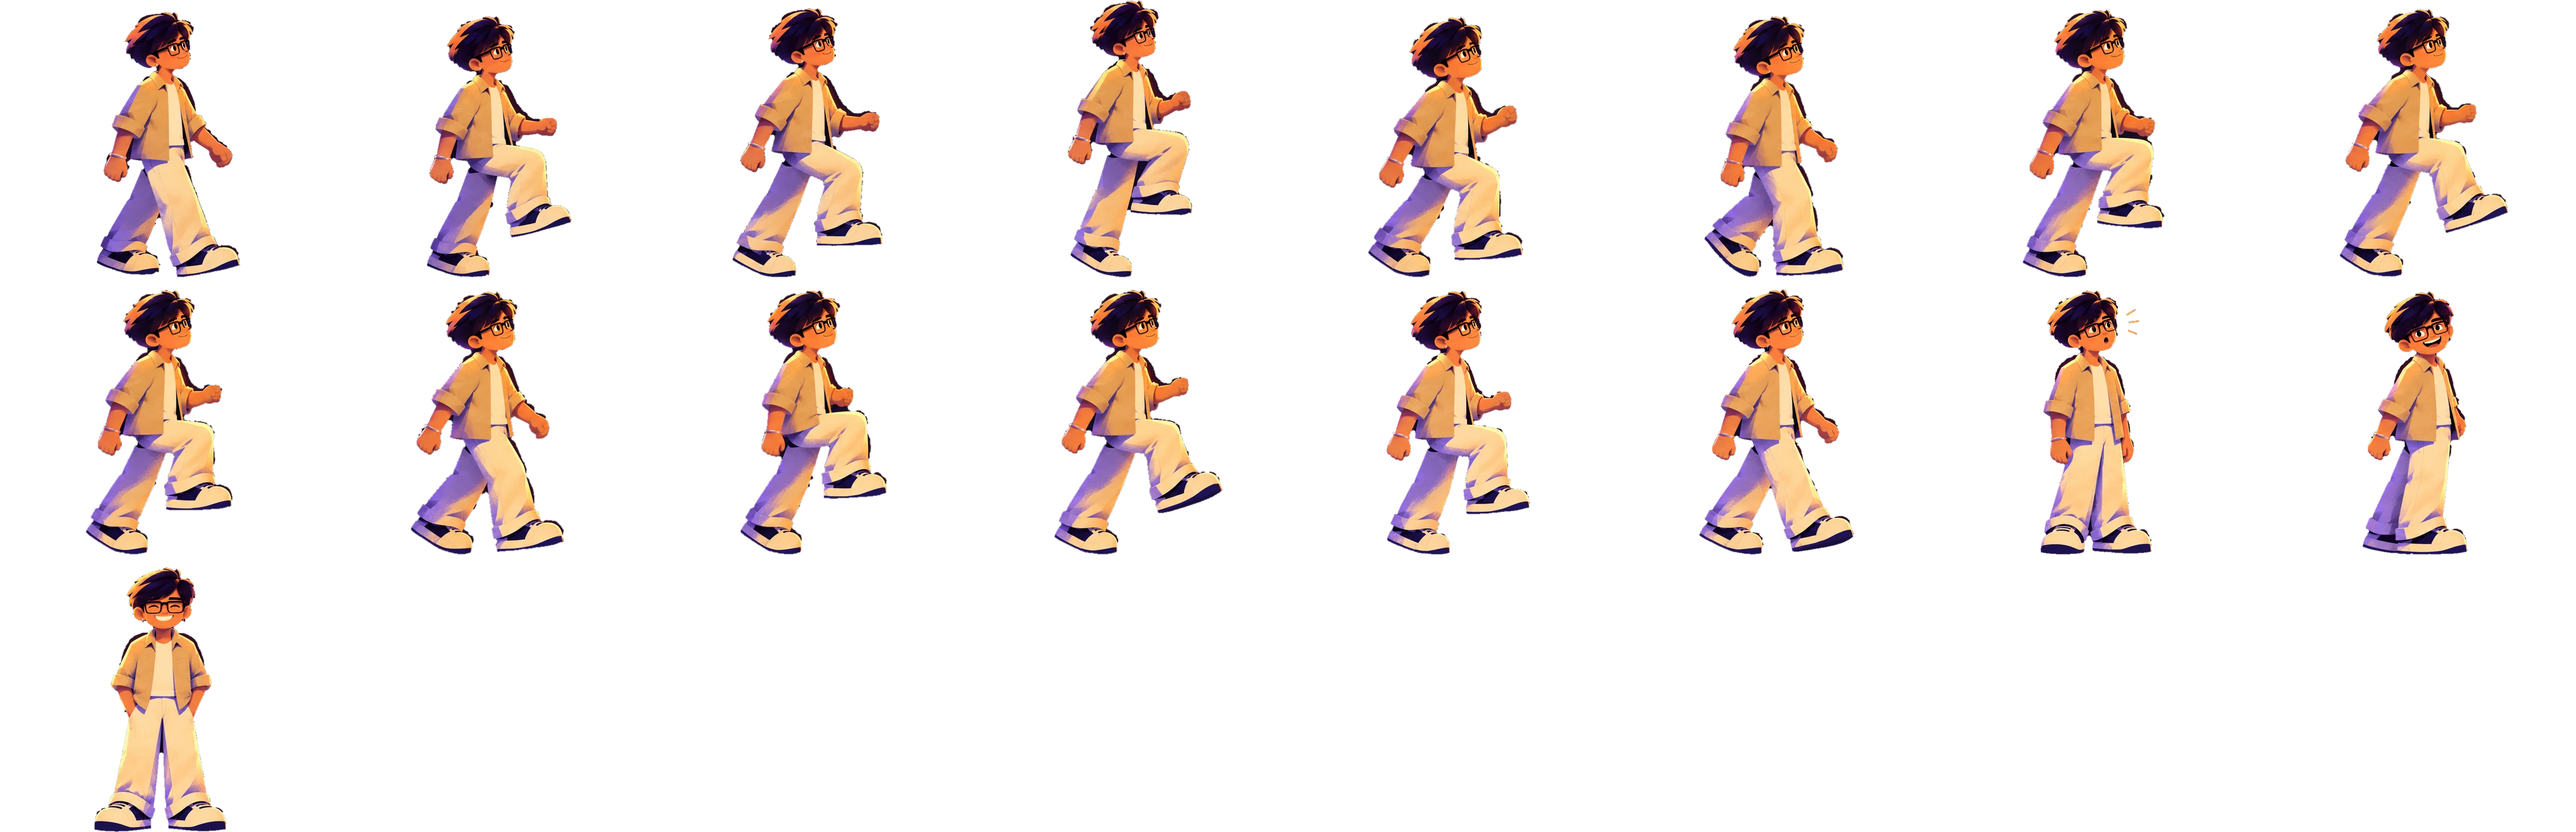
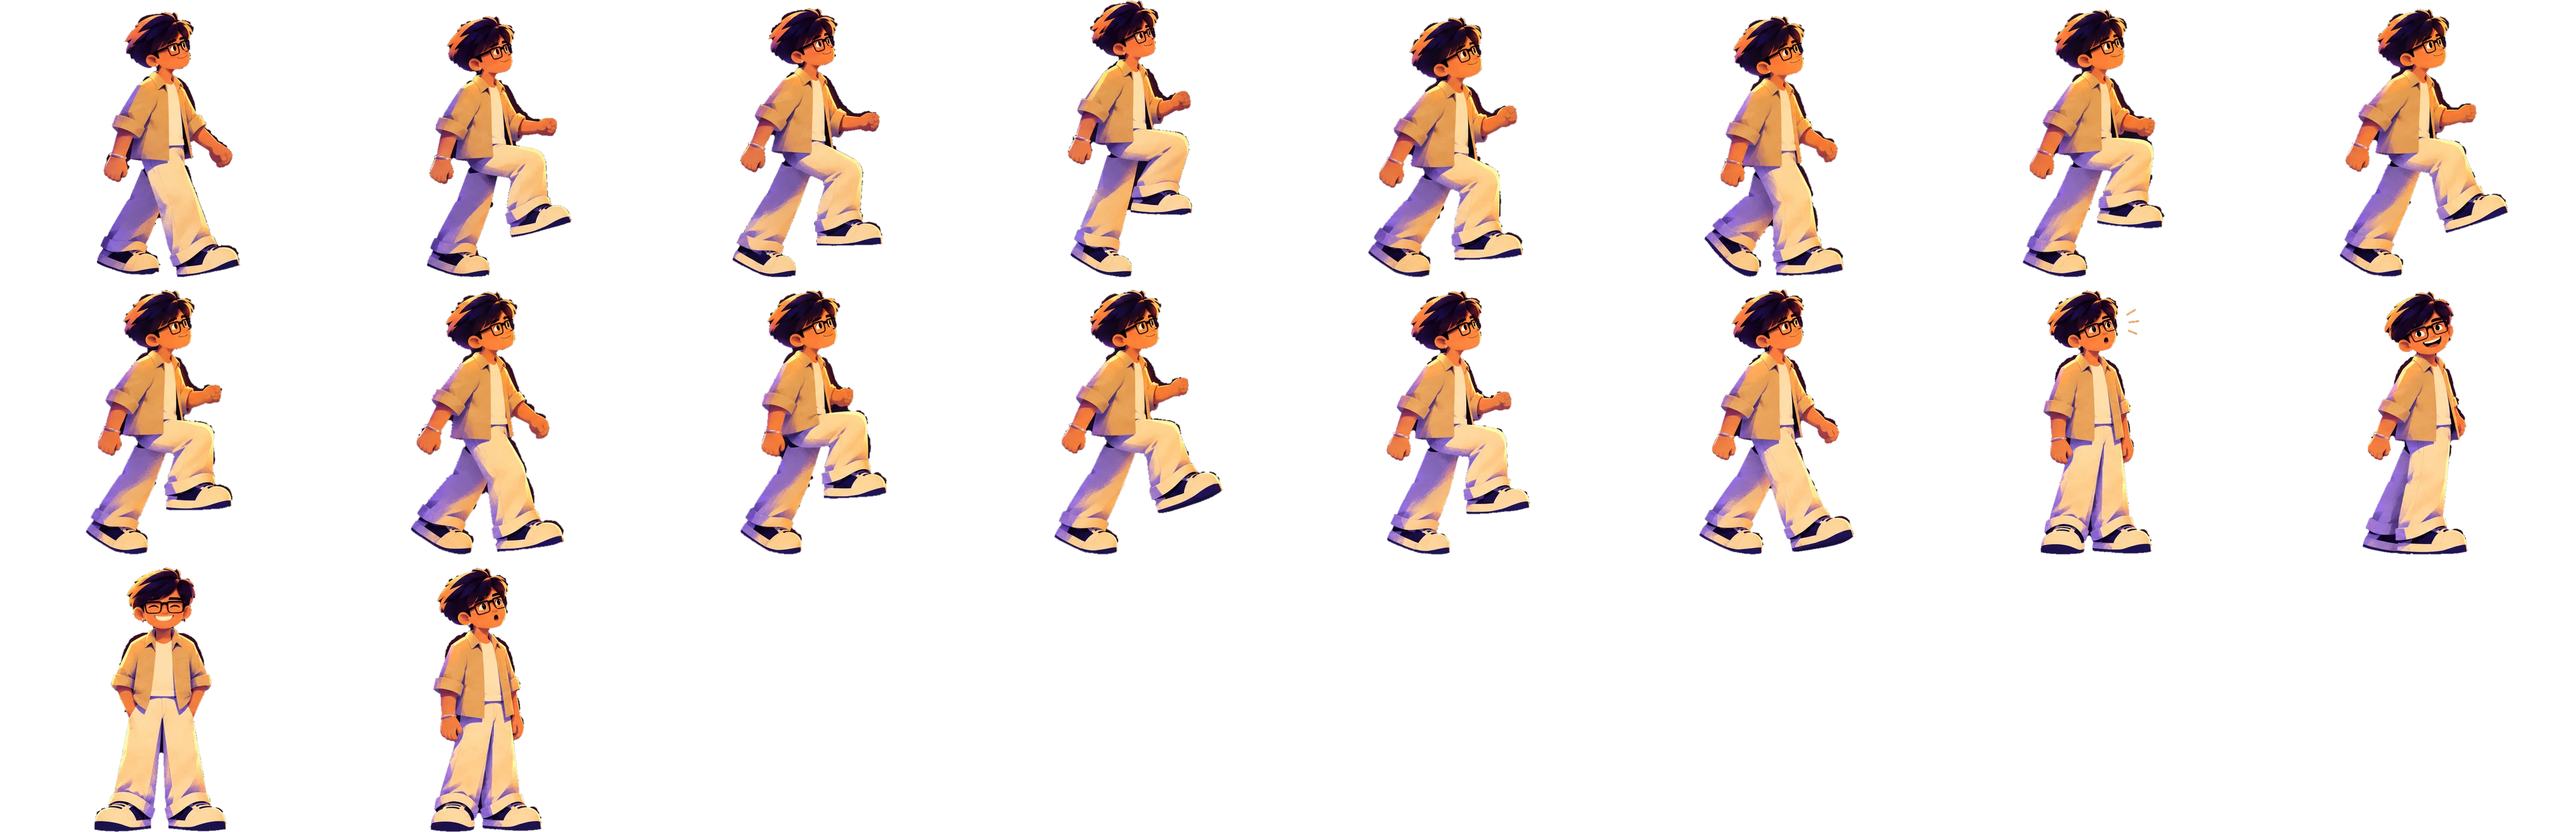
Cinema: new illustrated hall
The painted art-deco hall replaces the pixel theatre (tools/build_cinema.py cuts the
magenta screen out so the reel plays behind it, and lifts the seats from the first row
down into an overlay drawn in front of him). He comes in by the left door, stops beside
the stage and watches the screen, then crosses in front of the stage, just behind the
first row, and leaves by the right door. Reel controls sit on the lit stage apron.

He keeps the painted sprites in the hall (the watching pose is the gasp frame without its
marks). On phones the reel controls sit clear of the bottom nav.

Changed region(s): [[0.1562, 0.6875, 0.2188, 1.0]]

diff --git a/js/main.js b/js/main.js
@@ -44,7 +44,7 @@
     rise: [[0.375, 0], [0.625, 0.55], [0.875, 1]],   // [phase, share of the stride's rise]
   };
   // Character sheet per location (js/sprite.js SETS); locations without one use the pixel sheet
-  const SPRITE_SET = { street: "street", drain: "drain", subway: "street" };
+  const SPRITE_SET = { street: "street", drain: "drain", subway: "street", cinema: "street" };
   // Into the manhole: where he stops (art px left of its centre) and how high he steps off (x his height)
   const DROP = { stand: 225, arc: 0.14 };
   // Hero focus: STREET_DIM black over the street except soft windows at each billboard and a spotlight
@@ -172,11 +172,11 @@
   const CINEMA = {
     w: 1672, h: 941,
     front: {
-      screen: [476, 246, 720, 342],      // magenta area, keyed out; the reel plays behind it
-      stage: [380, 640, 920, 64],        // front of the stage: reel controls live here
-      rowTop: 700, rowH: 319,             // foreground seat row (assets/cinema/seat-row.webp)
-      door: 105, exit: 1575, floor: 692,  // left door he enters by, right door he leaves by; the floor between
-      stand: 235,                         // where he stops beside the stage to watch
+      screen: [504, 228, 663, 297],      // the screen, cut out of the art; the reel plays behind it
+      stage: [410, 552, 852, 46],        // the lit stage apron: reel controls live here
+      rowTop: 596,                       // seats from the first row down (assets/cinema/seat-row.webp) are drawn in front of him
+      door: 201, exit: 1463, floor: 612, // left door he enters by, right door he leaves by; his feet, just behind the first row
+      stand: 335,                        // where he stops, left of the stage, to watch
     },
   };
 
@@ -524,7 +524,7 @@
     fbox($(".cinema-content"), F.screen);
     // controls sit on the stage front; on tall narrow screens there's room below the room instead
     const visLeft = Math.min(Math.max(front.ox + 836 * fs - vw / 2, 0), front.w - vw) - front.ox;   // camera's left edge, in art-box px
-    if (front.h - front.oy - fh > 140) setBox($(".reel-bar"), visLeft + 12, fh + 20, vw - 24, front.h - front.oy - fh - 40);
+    if (front.h - front.oy - fh > 140) setBox($(".reel-bar"), visLeft + 12, fh + 10, vw - 24, front.h - front.oy - fh - 20);
     else fbox($(".reel-bar"), F.stage);
     // the seat row sits in front of him, clipped to the bottom of the room
     const rowY = front.y + front.oy + Math.round(F.rowTop * fs);
@@ -777,11 +777,14 @@
       case "land": anim = t < 0.45 ? "land" : t < 0.72 ? "glasses" : "smile"; n = t < 0.14 ? 0 : t < 0.32 ? 1 : 2; break;
       case "jump": anim = "jump"; n = Math.min(4, Math.floor(t * 5)); break;
       case "look": anim = "look"; n = tick(700); break;
-      case "watch": anim = tick(3200) % 4 === 3 ? "look" : "gaze"; n = tick(900); facing = s.face || -1; break;
+      case "watch":
+        if (Sprite.painted(set)) { set = "stairs"; anim = tick(3200) % 4 === 3 ? "grin" : "awe"; n = 0; }   // eyes on the screen, now and then a grin
+        else { anim = tick(3200) % 4 === 3 ? "look" : "gaze"; n = tick(900); facing = s.face || -1; }
+        break;
       case "sit": anim = s.prop === "chai" ? "chai" : "cinema"; n = tick(s.prop === "chai" ? 650 : 500); break;
     }
     let flips = ["walk", "run", "idle", "talk", "point", "look", "gaze"].includes(anim);   // climb frames are drawn facing their direction
-    const grounded = ["walk", "run", "idle", "talk", "point", "look", "gaze", "wave", "climbUp", "climbDown", "peer", "land", "glasses", "smile", "climb", "gasp", "happy", "grin"].includes(anim);
+    const grounded = ["walk", "run", "idle", "talk", "point", "look", "gaze", "wave", "climbUp", "climbDown", "peer", "land", "glasses", "smile", "climb", "gasp", "happy", "grin", "awe"].includes(anim);
     // painted sheets have their own left-facing frames instead of being mirrored
     const use = Sprite.resolve(set, anim, facing);
     set = use.set; anim = use.anim; flips = flips && use.flip;

diff --git a/index.html b/index.html
@@ -8,7 +8,7 @@
   <link rel="preconnect" href="https://fonts.googleapis.com" />
   <link rel="preconnect" href="https://fonts.gstatic.com" crossorigin />
   <link href="https://fonts.googleapis.com/css2?family=Press+Start+2P&family=Silkscreen&family=VT323&family=Noto+Sans+Devanagari:wght@700&display=swap" rel="stylesheet" />
-  <link rel="stylesheet" href="styles.css?v=1790888884" />
+  <link rel="stylesheet" href="styles.css?v=1790889890" />
 </head>
 <body class="ride preloading" data-location="street">
   <!-- preloader: READY? SET... GO! -> logo -> pixel dissolve into the street (js/preloader.js) -->
@@ -36,7 +36,7 @@
     <canvas class="pl-blocks"></canvas>
     <p class="pl-skip">Click or press any key to skip</p>
   </div>
-  <script src="js/preloader.js?v=1790888884"></script>
+  <script src="js/preloader.js?v=1790889890"></script>
   <a class="skip-link" href="#subway">Skip to projects</a>
 
   <!-- HUD: menu, metro route map, skip toggle -->
@@ -113,7 +113,7 @@
               <h2 class="sr-only" id="cinema-title">Reels</h2>
               <div class="screen"><div class="screen-media" id="screen-media"></div></div>
             </div>
-            <img class="bg-img pixel-art" src="assets/scenes/cinema-front.webp" alt="" decoding="async" fetchpriority="low" />
+            <img class="bg-img" src="assets/scenes/cinema-front.webp" alt="" decoding="async" fetchpriority="low" />
             <div class="content reel-bar">
               <div class="reel-controls">
                 <button class="btn btn-brass" type="button" id="reel-play">Play reel</button>
@@ -153,8 +153,8 @@
           </div>
         </footer>
 
-        <!-- front row of seats, in front of the character in the cinema -->
-        <div class="front-row" aria-hidden="true"><img class="pixel-art" src="assets/cinema/seat-row.webp" alt="" /></div>
+        <!-- the cinema's seats, in front of the character -->
+        <div class="front-row" aria-hidden="true"><img src="assets/cinema/seat-row.webp" alt="" /></div>
 
         <!-- the character -->
         <div class="char" id="char" aria-hidden="true">
@@ -199,8 +199,8 @@
   <!-- train wipe used when boarding a project -->
   <div class="train-wipe" aria-hidden="true"><div class="train-car"></div></div>
 
-  <script src="js/data.js?v=1790888884"></script>
-  <script src="js/sprite.js?v=1790888884"></script>
-  <script src="js/main.js?v=1790888884"></script>
+  <script src="js/data.js?v=1790889890"></script>
+  <script src="js/sprite.js?v=1790889890"></script>
+  <script src="js/main.js?v=1790889890"></script>
 </body>
 </html>

diff --git a/js/sprite.js b/js/sprite.js
@@ -39,10 +39,10 @@
        alias: poses that borrow another pose's frames
        fps:   walk/run cadence, if it differs from the default */
   const SETS = {
-    pixel: { src: "assets/character/sheet.webp?v=1790888884", cw: CW, ch: CH, cols: COLS, anims: ANIMS, bob: BOB, pixel: true },
+    pixel: { src: "assets/character/sheet.webp?v=1790889890", cw: CW, ch: CH, cols: COLS, anims: ANIMS, bob: BOB, pixel: true },
     // hero street (tools/pack_street_sprite.py): walk right 0-7, walk left 8-15, stand 16, wave 17-21, jump 22
     street: {
-      src: "assets/character/street.webp?v=1790888884", cw: 520, ch: 448, cols: 8,
+      src: "assets/character/street.webp?v=1790889890", cw: 520, ch: 448, cols: 8,
       anims: {
         walk: [0, 1, 2, 3, 4, 5, 6, 7], walkL: [8, 9, 10, 11, 12, 13, 14, 15],
         idle: [16], wave: [17, 18, 19, 20, 21, 20], fall: [22],
@@ -51,15 +51,15 @@
     },
     // subway to the ticket counter (tools/pack_stairs_sprite.py): onto the stairs, the climb, arriving in the lobby
     stairs: {
-      src: "assets/character/stairs.webp?v=1790888884", cw: 520, ch: 448, cols: 8,
+      src: "assets/character/stairs.webp?v=1790889890", cw: 520, ch: 448, cols: 8,
       anims: {
         climb: [0, 1, 2, 3, 4, 5, 6, 7, 8, 9, 10, 11, 12, 13],   // picked by cell, see CLIMB in js/main.js
-        gasp: [14], happy: [15], grin: [16],
+        gasp: [14], happy: [15], grin: [16], awe: [17],          // awe: the gasp without its "!" marks
       },
     },
     // the drop down the drain (tools/pack_drain_sprite.py): looks down the manhole, steps off, falls, lands
     drain: {
-      src: "assets/character/drain.webp?v=1790888884", cw: 520, ch: 448, cols: 8,
+      src: "assets/character/drain.webp?v=1790889890", cw: 520, ch: 448, cols: 8,
       anims: {
         peer: [0], stepoff: [1], fallStart: [2, 3, 4, 5], fall: [6, 7, 8, 9, 10, 11, 12, 13], fallEnd: [14],
         land: [15, 16, 17], glasses: [18], smile: [19], idle: [19],

diff --git a/styles.css b/styles.css
@@ -484,7 +484,7 @@ body::after {
 
 /* ---------------- 4. cinema ---------------- */
 .ride #stairwell .bg-img { position: absolute; left: 0; top: 0; width: var(--w); height: var(--h); }
-.ride #cinema-front { background: #140409; }
+.ride #cinema-front { background: #0D0720; }
 .ride .front-art { position: absolute; left: var(--x); top: var(--y); width: var(--w); height: var(--h); }
 .ride .front-art .bg-img { position: absolute; inset: 0; width: 100%; height: 100%; }
 .ride .front-art .content { position: absolute; left: var(--x); top: var(--y); width: var(--w); height: var(--h); }
@@ -515,6 +515,7 @@ body::after {
 /* the stage front holds the controls and ticket stubs */
 .reel-bar { display: flex; align-items: center; justify-content: center; align-content: flex-start; gap: 14px; flex-wrap: wrap; }
 .reel-controls { display: flex; gap: 10px; }
+@media (max-width: 700px) { .reel-bar { gap: 8px; } .tickets { gap: 8px; } .ticket { padding: 3px 12px; } }   /* clear of the bottom nav */
 .reel-controls .btn { padding: 8px 10px; }
 .tickets { list-style: none; margin: 0; padding: 0; display: flex; gap: 10px; flex-wrap: wrap; justify-content: center; }
 .ticket {

diff --git a/projects.html b/projects.html
@@ -8,8 +8,8 @@
   <link rel="preconnect" href="https://fonts.googleapis.com" />
   <link rel="preconnect" href="https://fonts.gstatic.com" crossorigin />
   <link href="https://fonts.googleapis.com/css2?family=Press+Start+2P&family=Silkscreen&family=VT323&family=Noto+Sans+Devanagari:wght@700&display=swap" rel="stylesheet" />
-  <link rel="stylesheet" href="styles.css?v=1790888884" />
-  <link rel="stylesheet" href="project.css?v=1790888884" />
+  <link rel="stylesheet" href="styles.css?v=1790889890" />
+  <link rel="stylesheet" href="project.css?v=1790889890" />
 </head>
 <body class="project-page all-page" data-location="subway">
   <header class="hud">
@@ -32,7 +32,7 @@
 
   <div class="pixel-wipe" aria-hidden="true"></div>
 
-  <script src="js/data.js?v=1790888884"></script>
+  <script src="js/data.js?v=1790889890"></script>
   <script>
     (function () {
       const S = SITE, $ = (s) => document.querySelector(s);

diff --git a/project.html b/project.html
@@ -7,8 +7,8 @@
   <link rel="preconnect" href="https://fonts.googleapis.com" />
   <link rel="preconnect" href="https://fonts.gstatic.com" crossorigin />
   <link href="https://fonts.googleapis.com/css2?family=Press+Start+2P&family=Silkscreen&family=VT323&family=Noto+Sans+Devanagari:wght@700&display=swap" rel="stylesheet" />
-  <link rel="stylesheet" href="styles.css?v=1790888884" />
-  <link rel="stylesheet" href="project.css?v=1790888884" />
+  <link rel="stylesheet" href="styles.css?v=1790889890" />
+  <link rel="stylesheet" href="project.css?v=1790889890" />
 </head>
 <body class="project-page" data-location="subway">
   <header class="hud">
@@ -44,7 +44,7 @@
 
   <div class="pixel-wipe" aria-hidden="true"></div>
 
-  <script src="js/data.js?v=1790888884"></script>
+  <script src="js/data.js?v=1790889890"></script>
   <script>
     (function () {
       const list = SITE.projects;

diff --git a/tools/build_cinema.py b/tools/build_cinema.py
@@ -1,0 +1,37 @@
+"""Build the cinema hall from its painting (assets/cinema/src/hall.webp).
+
+    python tools/build_cinema.py
+
+Writes
+  assets/scenes/cinema-front.webp  the hall with its magenta screen cut out (the reel plays behind it)
+  assets/cinema/seat-row.webp      the seats from the first row down, drawn in front of the character
+and prints the screen's box for js/main.js (CINEMA.front.screen).
+"""
+from pathlib import Path
+import numpy as np
+from PIL import Image
+from scipy import ndimage as nd
+
+ROOT = Path(__file__).resolve().parent.parent
+ROW_TOP = 600        # the first row's seat backs start here; he walks just behind them
+FEATHER = 4
+
+a = np.array(Image.open(ROOT / "assets/cinema/src/hall.webp").convert("RGB"))
+r, g, b = [a[..., i].astype(int) for i in range(3)]
+H, W = a.shape[:2]
+
+# the screen: the big magenta block, plus the pink-tinged pixels on its edge
+mag = (r > 200) & (g < 90) & (b > 200)
+lab, n = nd.label(mag)
+screen = lab == 1 + int(np.argmax(nd.sum(mag, lab, range(1, n + 1))))
+ys, xs = np.nonzero(screen)
+x0, y0, x1, y1 = xs.min(), ys.min(), xs.max() + 1, ys.max() + 1
+hole = nd.binary_dilation(screen, iterations=2) | (nd.binary_dilation(screen, iterations=5) & (r > 120) & (b > 120) & (g < 110))
+alpha = 1 - nd.gaussian_filter(hole.astype(float), 0.7)
+rgb = np.where(hole[..., None], np.array([14, 9, 30]), a)          # no magenta left to fringe the edge
+Image.fromarray(np.dstack([rgb, alpha * 255]).astype(np.uint8)).save(ROOT / "assets/scenes/cinema-front.webp", quality=90, method=6)
+
+rows = a[ROW_TOP - FEATHER:]
+fade = np.clip(np.arange(rows.shape[0]) / FEATHER, 0, 1)[:, None] * np.ones((1, W))
+Image.fromarray(np.dstack([rows, fade * 255]).astype(np.uint8)).save(ROOT / "assets/cinema/seat-row.webp", quality=90, method=6)
+print("screen: x, y, w, h =", [int(x0) - 2, int(y0) - 2, int(x1 - x0) + 4, int(y1 - y0) + 4], "| seat rows from", ROW_TOP - FEATHER)

diff --git a/tools/pack_stairs_sprite.py b/tools/pack_stairs_sprite.py
@@ -5,6 +5,7 @@ Sources, painted on a flat dark backdrop (assets/character/src/stairs/):
   climb.png    the stair-climbing cycle                                         (8 frames)
   arrive.png   the last step, a stride onto the lobby floor, then he spots the cinema:
                a gasp, a delighted look back, a grin with his hands in his pockets (5 frames)
+The gasp is packed a second time without its "!" marks: he watches the cinema screen in that pose.
 
     python tools/pack_stairs_sprite.py
 
@@ -21,7 +22,7 @@ SRC = ROOT / "assets/character/src/stairs"
 SHEETS = {"step-on.png": (1, 590, []), "climb.png": (2, 463, []), "arrive.png": (1, 605, [2, 3, 4])}
 
 
-def frames(name):
+def frames(name, marks=True):
     rows, tall, feet = SHEETS[name]
     a = np.array(Image.open(SRC / name).convert("RGB"))
     fg = key(a, 4)                       # a fat brush: his hair is the backdrop's own colour
@@ -36,7 +37,7 @@ def frames(name):
     for f, i in enumerate(figs):
         ys, xs = objs[i]
         # small marks drawn beside him (the "!" dashes) belong to the frame too
-        near = [j for j in range(n) if 60 < size[j] <= 15000
+        near = [j for j in range(n) if marks and 60 < size[j] <= 15000
                 and objs[j][1].start > xs.start - 40 and objs[j][1].stop < xs.stop + 40
                 and objs[j][0].start > ys.start - 40 and objs[j][0].stop < ys.stop + 40]
         labs = [i + 1] + [j + 1 for j in near]
@@ -54,4 +55,6 @@ def frames(name):
 
 
 if __name__ == "__main__":
-    pack(frames("step-on.png") + frames("climb.png") + frames("arrive.png"), ROOT / "assets/character/stairs.webp")
+    # last: the gasp again without its "!" marks (he watches the cinema screen in it)
+    pack(frames("step-on.png") + frames("climb.png") + frames("arrive.png") + [frames("arrive.png", marks=False)[2]],
+         ROOT / "assets/character/stairs.webp")
